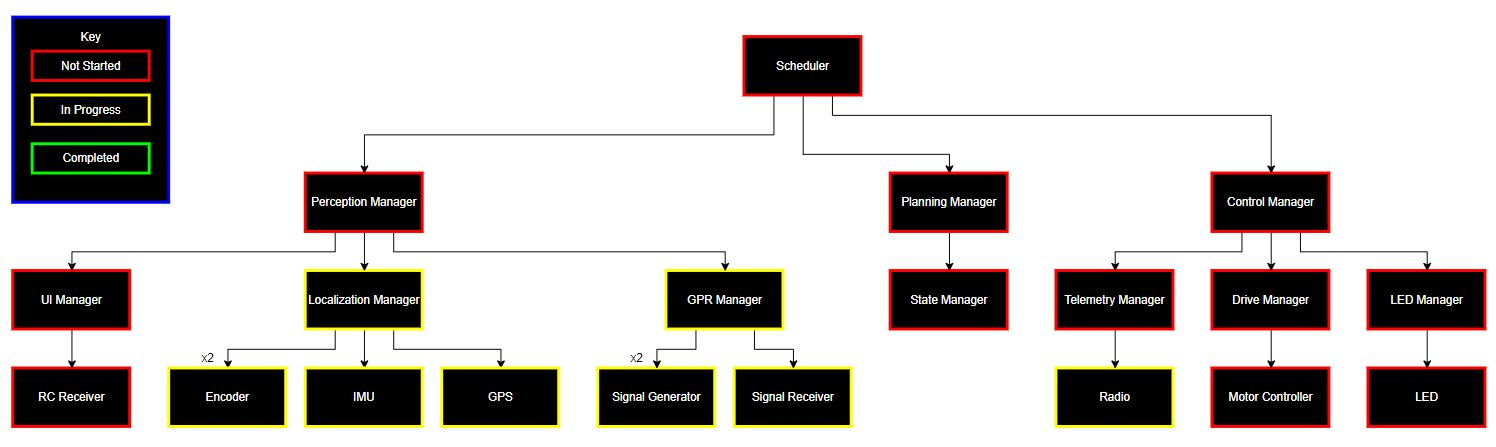
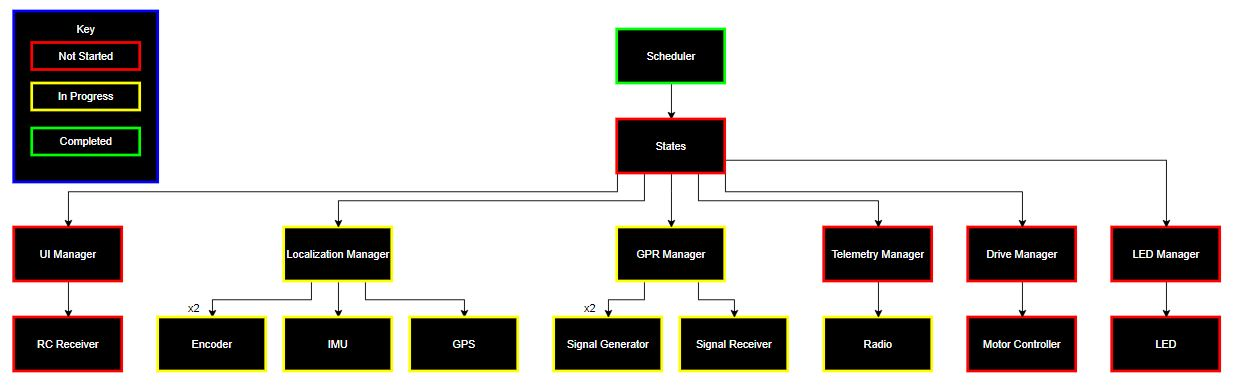
State-based scheduler implemented format-wise

Changed region(s): [[0.0, 0.3683, 1.0, 0.9821], [0.2462, 0.0614, 0.9538, 0.5217], [0.0, 0.0, 0.1538, 0.491]]

diff --git a/System/Src/scheduler.cpp b/System/Src/scheduler.cpp
@@ -1,0 +1,79 @@
+/*
+ * scheduler.c
+ */
+
+#include "scheduler.h"
+
+#include "state_interface.hpp"
+#include "stm32f7xx_hal.h"
+
+#define LOOP_PERIOD_MS 10  // How often a loop of the code should be run
+
+static State* p_current_state;
+static State* p_next_state;
+
+typedef enum state_id {
+	NUM_STATES = 0,
+	UNKNOWN
+} state_id;
+
+/**
+ * @brief Get the next state based on the current state and its end status
+ * @param[in] end_status: What the current state returned as its status
+ */
+static state_id get_next_state(end_status_t end_status) {
+	// Return the current state if there's no change
+	if (end_status == end_status_t::NoChange) {
+		return (state_id) p_current_state->get_id();
+	}
+	return state_id::UNKNOWN;
+}
+
+void scheduler_run() {
+
+	State* states[] = {
+		nullptr
+	};
+
+	// Initialize the current and next states
+	p_current_state = nullptr;
+	p_next_state = nullptr;
+
+	// Helper functions throughout infinite loop
+	uint32_t last_time = HAL_GetTick();
+	end_status_t end_status = end_status_t::NoChange;
+
+	// Keep running scheduler forever
+	while(1) {
+
+		// Limit rate scheduler runs at
+		if (p_current_state)
+			while((HAL_GetTick() - last_time) < LOOP_PERIOD_MS);
+		last_time = HAL_GetTick();
+
+		// Cleanup current state and initialize next state if changing states
+		if (p_next_state != p_current_state) {
+			if (p_current_state) {
+				p_current_state->cleanup();
+			}
+			if (p_next_state) {
+				p_next_state->init();
+			}
+			p_current_state = p_next_state;
+		}
+
+		// Run the current state
+		if (p_current_state) {
+			end_status = p_current_state->run();
+		}
+
+		// Find and set the next state
+		state_id next_state = get_next_state(end_status);
+		for (State* state : states) {
+			if (state->get_id() == next_state) {
+				p_next_state = state;
+				break;
+			}
+		}
+	}
+}

diff --git a/System/Inc/state_interface.hpp b/System/Inc/state_interface.hpp
@@ -1,0 +1,46 @@
+/*
+ * state_interface.hpp
+ */
+
+#ifndef INC_STATE_INTERFACE_HPP_
+#define INC_STATE_INTERFACE_HPP_
+
+#include <cstdint>
+
+typedef enum {
+	NoChange
+} end_status_t;
+
+class State {
+
+    public:
+		State(int id): id_(id) { }
+		virtual ~State() = default;
+
+		/**
+		 * @brief Returns given ID of this state so higher level can track State pointers instead of IDs
+		 * @return Given ID of state
+		 */
+		int get_id() { return id_; }
+
+		/**
+		 * @brief Runs this states
+		 * @return End status of the current loop
+		 */
+		virtual end_status_t run();
+
+		/**
+		 * @brief Actions that occur on initialization of state
+		 */
+        virtual void init(void);
+
+        /**
+         * @brief Actions that occur at the end of the state
+         */
+        virtual void cleanup(void);
+
+    private:
+        int id_;
+};
+
+#endif /* INC_STATE_INTERFACE_HPP_ */

diff --git a/System/Inc/scheduler.h b/System/Inc/scheduler.h
@@ -1,10 +1,10 @@
 /*
  * scheduler.h
  *
- * Entrypoint of custom software.
- * Defines bare-metal architecture for system with scheduler design pattern.
- * Ensures perception manager runs and passes "perception" to planning manager.
- * Ensures planning manager runs and passes "perception" and "plan" to control manager.
+ * Entrypoint of custom software
+ * Controls initialization, running, and cleanup of current state
+ * Ensures code loops run at a fixed rate for best robot perception and control
+ * Contains primary state machine, finding next state based on current state and its "end status"
  */
 
 #ifndef INC_SCHEDULER_H_

diff --git a/Core/Src/main.cpp b/Core/Src/main.cpp
@@ -31,7 +31,7 @@
 
 /* Private includes ----------------------------------------------------------*/
 /* USER CODE BEGIN Includes */
-
+#include "scheduler.h"
 /* USER CODE END Includes */
 
 /* Private typedef -----------------------------------------------------------*/
@@ -109,7 +109,7 @@ int main(void)
   MX_UART4_Init();
   MX_TIM11_Init();
   /* USER CODE BEGIN 2 */
-
+  scheduler_run();
   /* USER CODE END 2 */
 
   /* Infinite loop */

diff --git a/README.md b/README.md
@@ -15,44 +15,33 @@ This software runs on an STM32F767 microcontroller. Expected attached hardware i
 
 ## Scheduler
 - Entrypoint of custom software
-- Defines bare-metal architecture for system with scheduler design pattern
-- Ensures perception manager runs and passes "perception" to planning manager
-- Ensures planning manager runs and passes "perception" and "plan" to control manager
+- Controls initialization, running, and cleanup of current state
+- Ensures code loops run at a fixed rate for best robot perception and control
+- Contains primary state machine, finding next state based on current state and its "end status"
 
-## Perception Manager
-- Tracks what information should be gathered from environment (what managers should be run)
-- Conglomerates user, localization, and radar input data into a single perception vector
+## States
+- Each state has a specific set of tasks to run once at the beginning, every time through its loop, and once at its end
+- State loops return an "end status" as an indicator to the scheduler of an important event
 
-### UI Manager
+## UI Manager
 - Gathers raw button values from RC Receiver driver
 - Tracks button states from RC Receiver
 - Converts button states into meaningful commands
 
-### Localization Manager
+## Localization Manager
 - Gathers sensor data from encoders, GPS, and IMU if available
 - Tracks estimated robot pose, velocity, and uncertainty in those measurements
 - Updates estimated pose, velocity, and uncertainty with new sensor data using Kalman filtering
 
-### GPR Manager
+## GPR Manager
 - Controls timing of signal generation, signal reception, and reference clock for signal receiving mixing
 - Provides method for changing state-specific GPR parameters (pulse frequency, pulse width, and sample length)
 
-## Planning Manager
-- Makes sure plans always run and are provided with perception vector. No external hardware communication exists in the whole planning branch
-- Conglomerates plans developed by all sub-managers into a single plan
-
-### State Manager
-- Primary state machine. Next state is chosen based on current state and perception vector
-
-## Control Manager
-- References state field in plan to generate a state-specific action list
-- Runs all sub-managers indicated by action list, ensuring each is provided a perception vector and a plan
-
-### Telemetry Manager
+## Telemetry Manager
 - Holds definition for telemetered packet protocol, including location, GPR frequency, and recorded GPR data in the body
 - Controls timing of radio to prevent oversending
 
-### Drive Manager
+## Drive Manager
 - Scales user drive setpoints as needed to maintain physically attainable movement
 - Adjusts motor setpoints based on drive setpoints and current pose/velocity
 - Passes motor setpoints to motor controller driver
